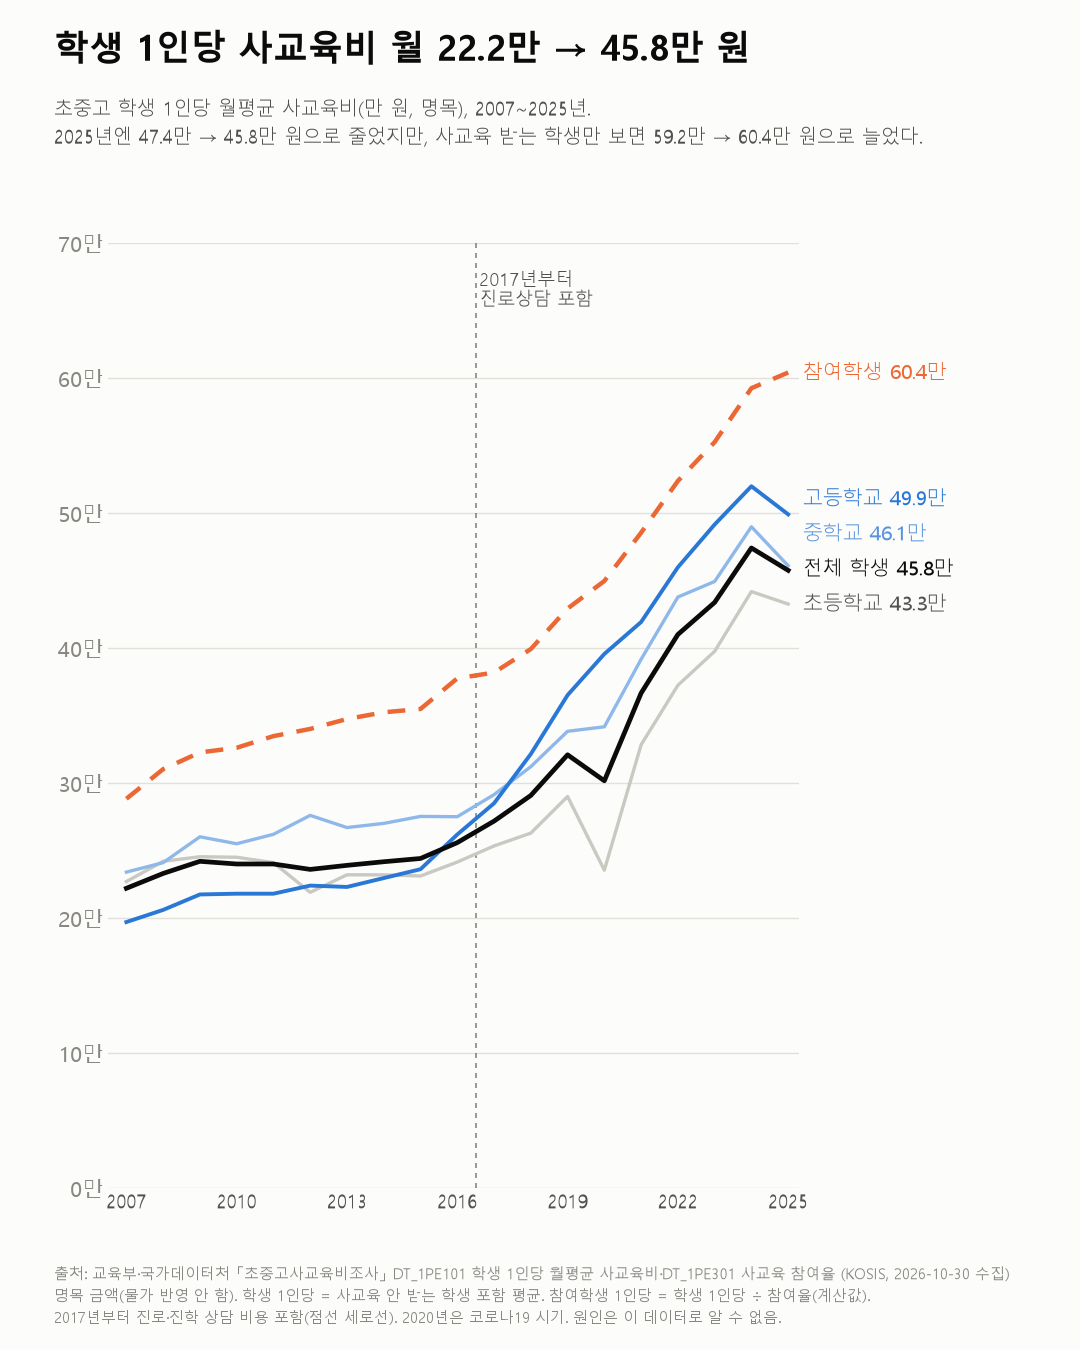
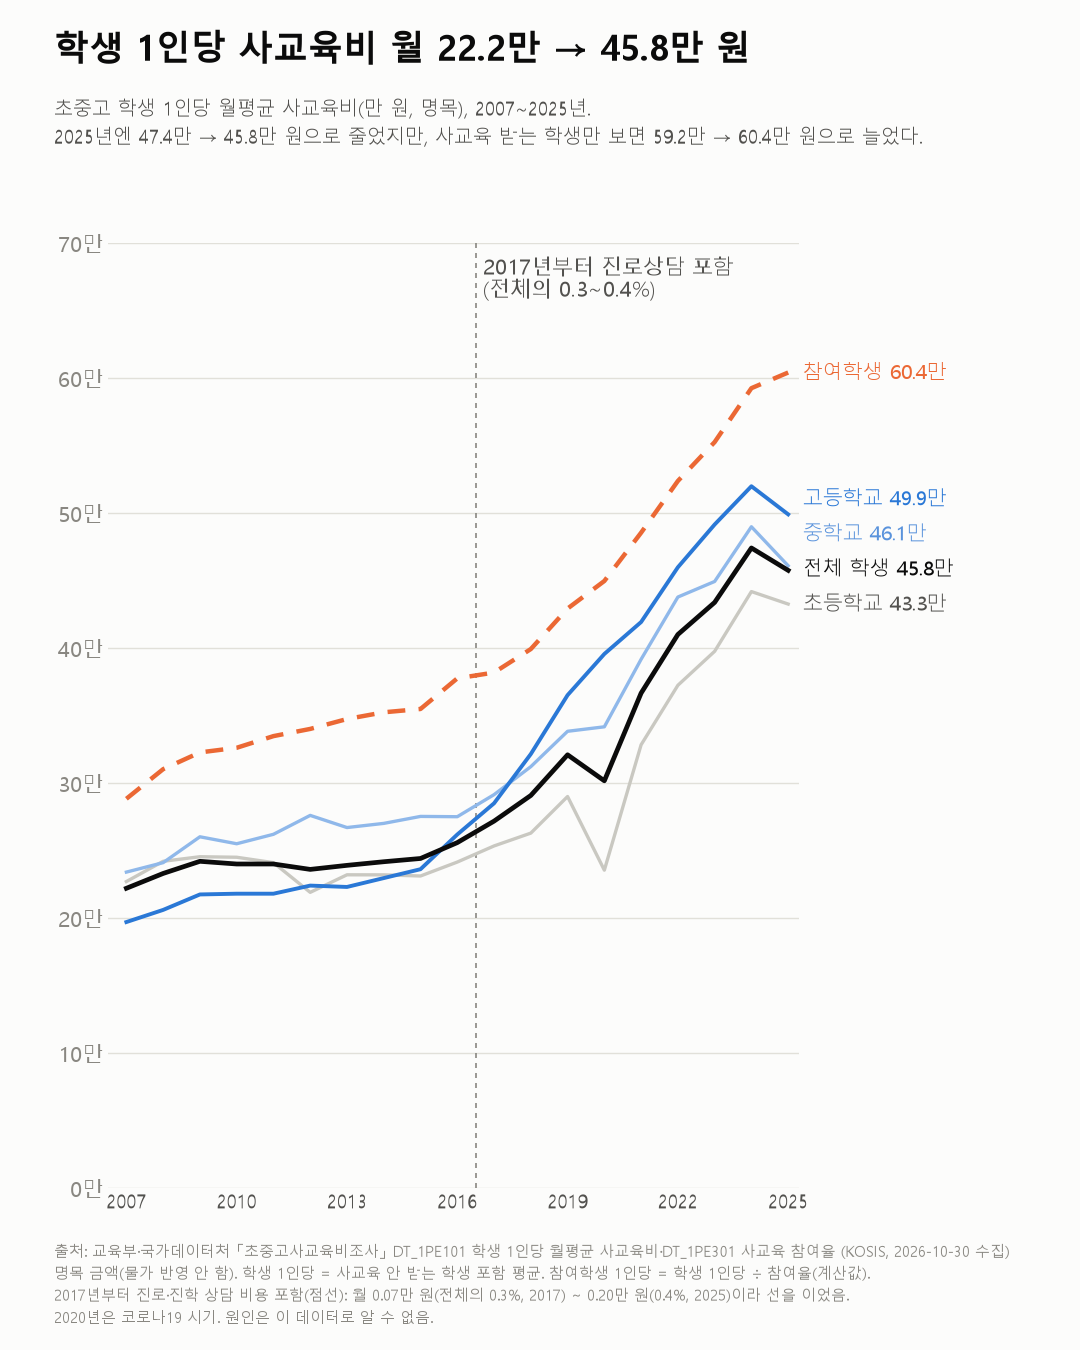
사이트 갱신

Changed region(s): [[0.0306, 0.9022, 0.8556, 0.9956], [0.4278, 0.1867, 0.6111, 0.2489], [0.6417, 0.1867, 0.6722, 0.2178]]

diff --git a/2026-10_private-edu/index.html b/2026-10_private-edu/index.html
@@ -53,7 +53,7 @@
 <ul>
 <li><strong>학생 1인당 = 사교육을 받지 않는 학생까지 포함한 평균</strong>이다. '참여학생 1인당'은 학생 1인당 ÷ 참여율로 계산했다(2025년 60.4만 원으로 보도 값과 같음).</li>
 <li><strong>명목 금액이다.</strong> 물가를 반영하지 않았다.</li>
-<li>2017년부터 진로·진학 학습상담 비용이 포함됐다(2017년은 소급 보정). 차트에 점선으로 표시했다.</li>
+<li>2017년부터 진로·진학 학습상담 비용이 포함됐다(2017년은 소급 보정). 이 항목은 학생 1인당 월 0.07만 원(전체의 0.3%, 2017)~0.20만 원(0.4%, 2025)이라 추세를 바꿀 크기가 아니어서 선을 잇고 점선으로만 표시했다.</li>
 <li>2024년부터 가구소득 구간이 바뀌어 소득별 비교는 같은 해 안에서만 했다.</li>
 <li>신뢰도 낮음(*) 칸은 없었다.</li>
 <li>교차 확인: 2025년 학생 1인당 45.8만 원(전년보다 3.5%↓), 참여율 80.0% → 75.7%, 참여학생 1인당 60.4만 원(2.0%↑)이 보도와 같다.</li>
@@ -71,7 +71,7 @@
 </section><section class="sec sec-limits"><h2>한계</h2><p class="sec-note">이 데이터로 말할 수 없는 것</p>
 <ul>
 <li><strong>명목 금액이다.</strong> 2007년의 22.2만 원과 2025년의 45.8만 원은 가치가 다르다.</li>
-<li><strong>2017년부터 진로상담 비용이 들어가</strong> 2016→2017 증가에 정의 변화가 섞여 있다.</li>
+<li><strong>2017년부터 진로상담 비용이 들어갔다.</strong> 다만 전체의 0.3~0.4%라 2016→2017 증가(25.6만 → 27.2만 원)의 대부분은 다른 항목이다.</li>
 <li><strong>사교육을 권하거나 효과를 말하지 않는다.</strong> 원인도 판단하지 않는다.</li>
 </ul>
 </section><section class="sec sec-premises"><h2>전제 기록</h2><p class="sec-note">데이터를 보기 전에 적어둔 것, 그리고 보고 나서 바꾼 것</p>
